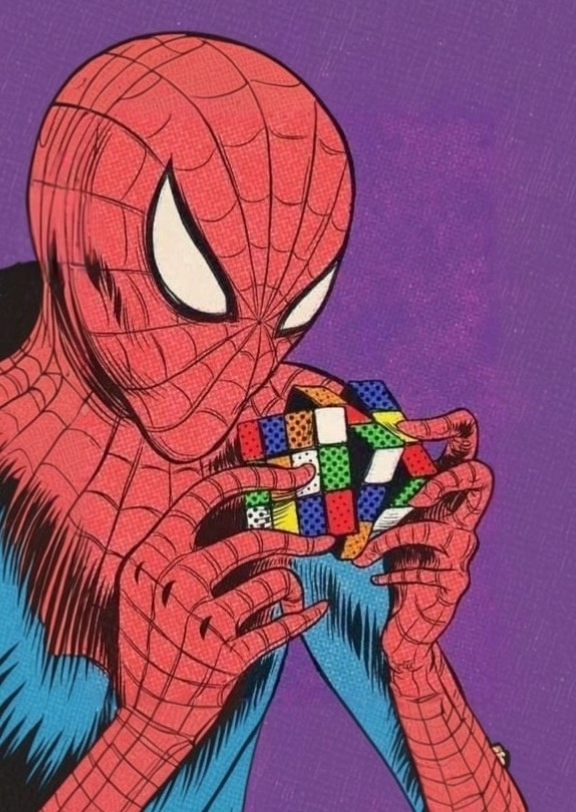
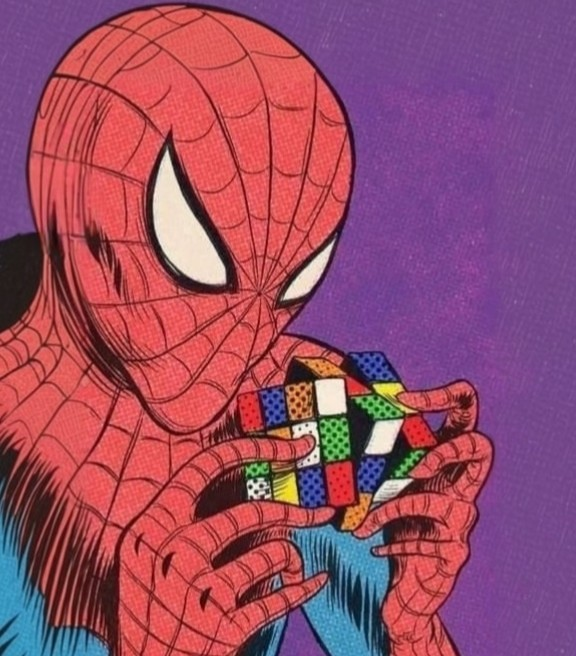
Fixed the image issue bug on Readme

diff --git a/README.md b/README.md
@@ -5,7 +5,7 @@
 
 <br/>
 
-<img src="assets/poster.jpeg" alt="T-PERM Poster" width="460" style="max-width: 100%; aspect-ratio: 1 / 0.85; object-fit: cover; border-radius: 8px;" />
+<img src="assets/poster.jpeg" alt="T-PERM Poster" width="460" style="max-width: 100%; object-fit: cover; border-radius: 8px;" />
 
 <br/><br/>
 
